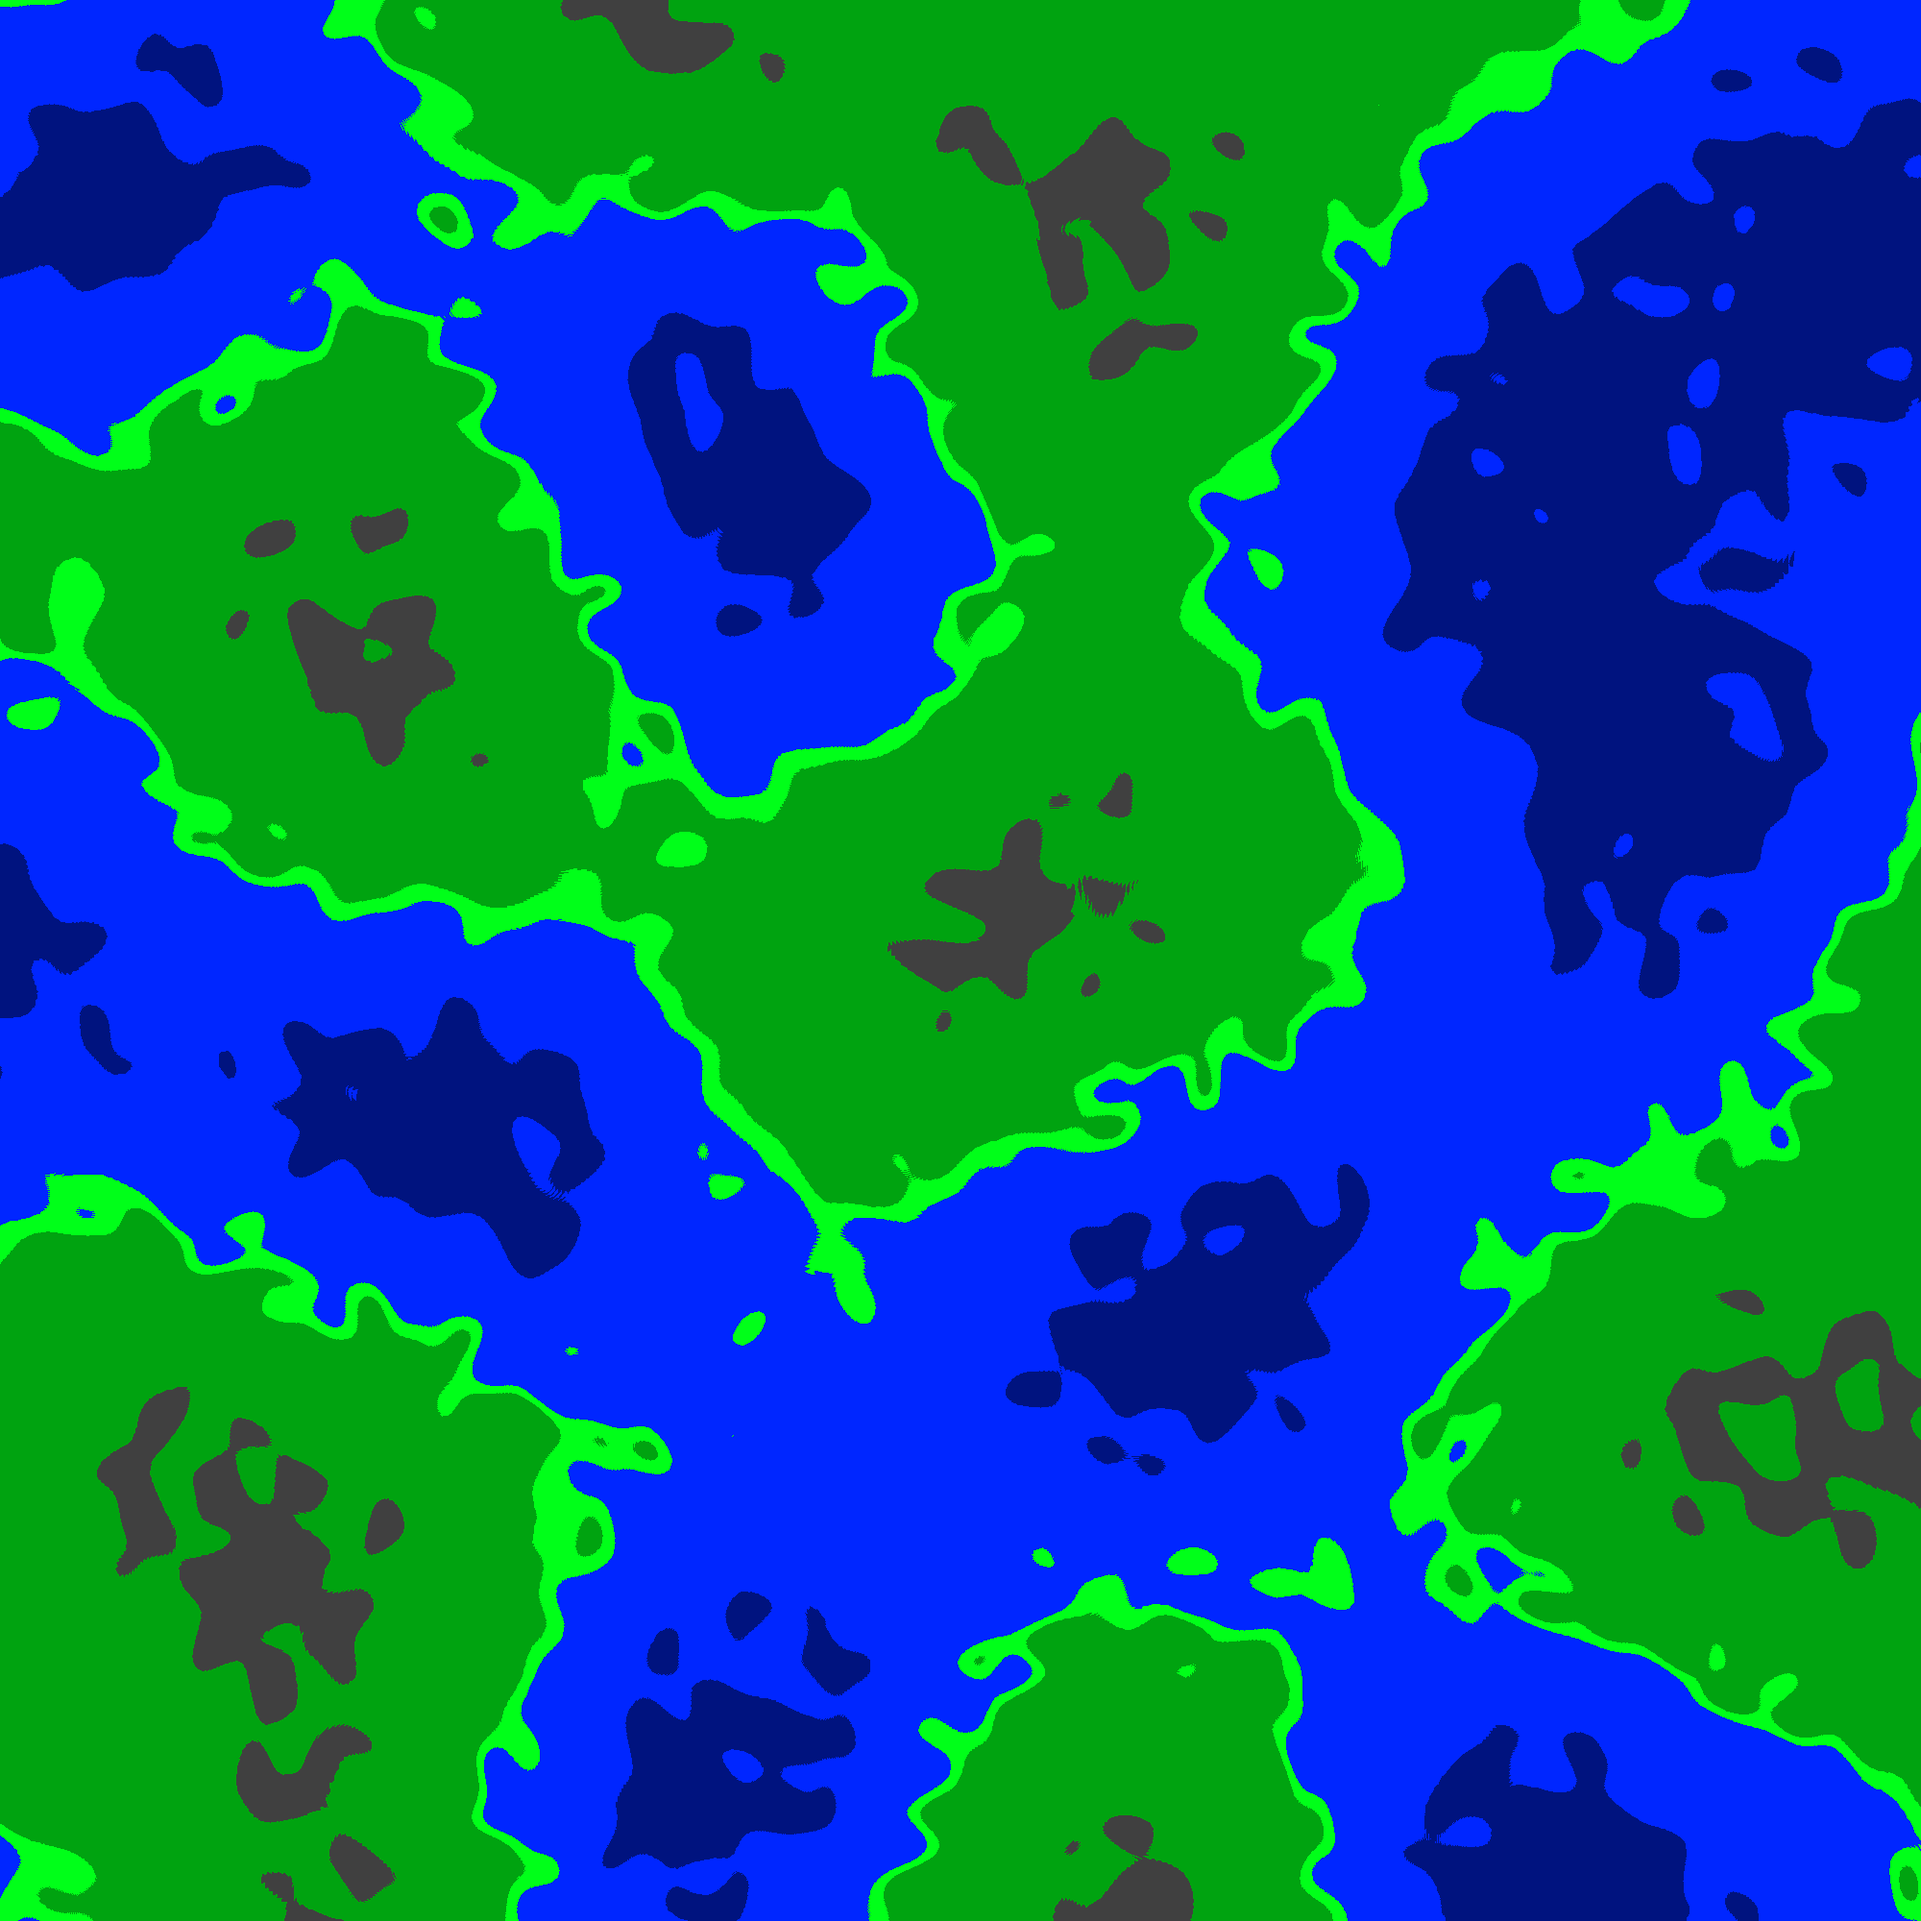
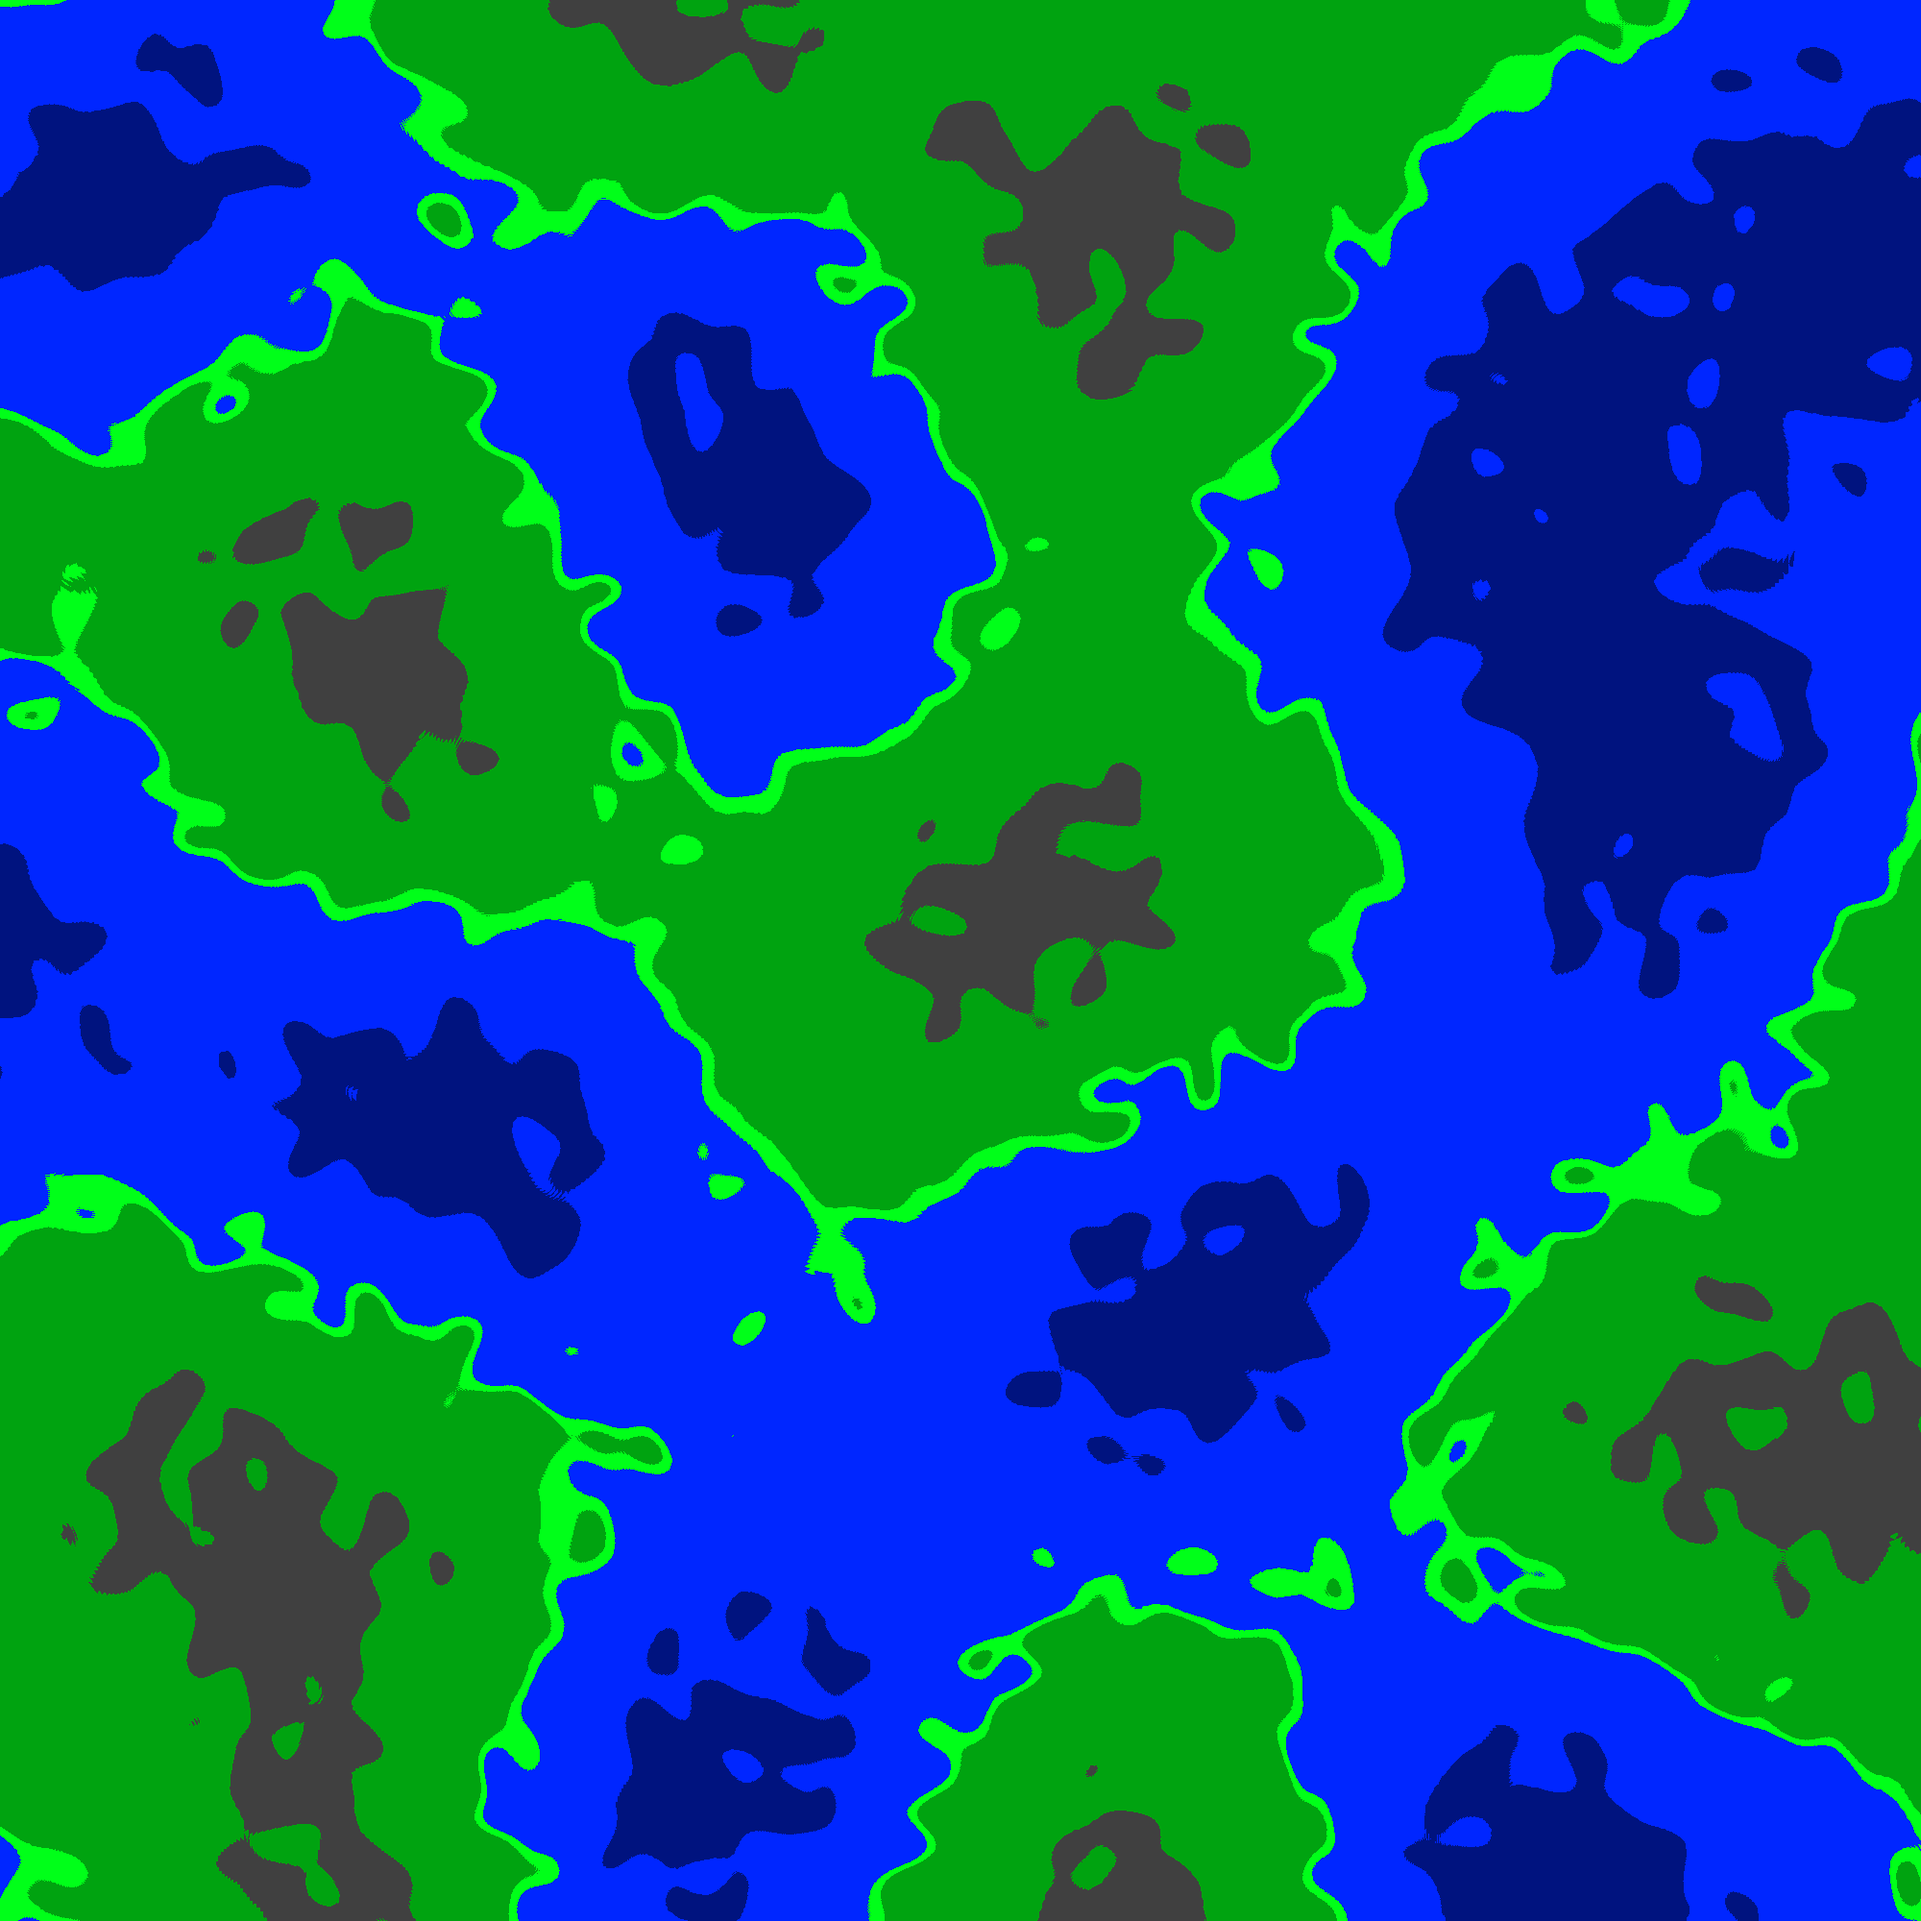
new map stuff for natural resources

diff --git a/govgameSandboxAndTesting/Program.cs b/govgameSandboxAndTesting/Program.cs
@@ -2,7 +2,9 @@
 using MongoDB.Bson;
 using MongoDB.Driver;
 using System;
+using System.Collections.Generic;
 using System.Drawing;
+using System.Linq;
 
 namespace govgameSandboxAndTesting
 {
@@ -15,61 +17,91 @@ namespace govgameSandboxAndTesting
         static readonly IMongoDatabase locationsDatabase = mongoClient.GetDatabase("govgame_locations_table");
         static readonly IMongoCollection<Location> locationsCollection = locationsDatabase.GetCollection<Location>("locations");
 
+        static Random random = new Random();
+
         static void Main(string[] args)
         {
-            // biomes: "deep water" = rgb(0, 19, 127), "shallow water" = rgb(0, 38, 255), "coast" = rgb(0, 255, 25), "grass" = rgb(0, 163, 16), "mountain" = rgb(64, 64, 64)
-
-            Color deepWater = Color.FromArgb(0, 19, 127);
-            Color shallowWater = Color.FromArgb(0, 38, 255);
-            Color coast = Color.FromArgb(0, 255, 25);
-            Color grass = Color.FromArgb(0, 163, 16);
             Color mountain = Color.FromArgb(64, 64, 64);
+            Color coal = Color.FromArgb(0, 0, 0);
+            Color iron = Color.FromArgb(69, 136, 145);
 
             Bitmap map = (Bitmap)Image.FromFile("map.png");
+
+            /* Plan:
+             * 
+             * - loop through squares
+             * - if square is mountain:
+             *  - get square's neighbours (all 8)
+             *  - if any neighbours are not mountain, skip
+             *  - if no neighbours are ore, 80% chance that a ore deposit starts
+             *  - if any neighbours (4) are ore:
+             *   - if neighbours contain >1 type of ore, skip
+             *   - if neighbours contain 1 type of ore, 60% chance of continuing ore deposit
+             */
 
             for (int x = 0; x < map.Width; x++)
             {
                 for (int y = 0; y < map.Height; y++)
                 {
-                    string biome = "unknown";
+                    if (map.GetPixel(x, y).ToArgb() == mountain.ToArgb())
+                    {
+                        if (x == 0 || x == map.Width - 1 || y == 0 || y == map.Height - 1) continue;
 
-                    Color pixelColour = map.GetPixel(x, y);
+                        List<Color> neighbours = new List<Color>();
+                        for (int xOffset = -1; xOffset <= 1; xOffset++)
+                        {
+                            for (int yOffset = -1; yOffset <= 1; yOffset++)
+                            {
+                                if (xOffset == 0 && yOffset == 0) continue;
 
-                    if (pixelColour.ToArgb() == deepWater.ToArgb())
-                    {
-                        biome = "deep water";
-                    }
-                    if (pixelColour.ToArgb() == shallowWater.ToArgb())
-                    {
-                        biome = "shallow water";
-                    }
-                    if (pixelColour.ToArgb() == coast.ToArgb())
-                    {
-                        biome = "coast";
-                    }
-                    if (pixelColour.ToArgb() == grass.ToArgb())
-                    {
-                        biome = "grass";
-                    }
-                    if (pixelColour.ToArgb() == mountain.ToArgb())
-                    {
-                        biome = "mountain";
-                    }
+                                neighbours.Add(map.GetPixel(x + xOffset, y + yOffset));
+                            }
+                        }
 
-                    Location location = new Location
-                    {
-                        LocationId = new ObjectId(),
-                        GlobalX = x,
-                        GlobalY = y,
-                        Owner = "none",
-                        Biome = biome
-                    };
+                        // if any neighbours aren't mountain (or ore), skip
+                        if (neighbours.Where(neighbour => neighbour.ToArgb() != mountain.ToArgb() && neighbour.ToArgb() != coal.ToArgb() && neighbour.ToArgb() != iron.ToArgb()).Count() > 0) continue;
 
-                    locationsCollection.InsertOne(location);
+                        // if all neighbours are mountain and not ore
+                        if (neighbours.Where(neighbour => neighbour.ToArgb() == mountain.ToArgb()).Count() == 8)
+                        {
+                            if (random.NextDouble() > 0.2)
+                            {
+                                if (random.NextDouble() > 0.5)
+                                {
+                                    map.SetPixel(x, y, coal);
+                                }
+                                else
+                                {
+                                    map.SetPixel(x, y, iron);
+                                }
+                            }
+                        }
+                        // if any neighbours are ore
+                        else
+                        {
+                            List<Color> neighboursSquare = new List<Color> { neighbours[1], neighbours[3], neighbours[4], neighbours[6] };
+
+                            // if neighbours contain at least one of each ore
+                            if (neighboursSquare.Where(neighbour => neighbour.ToArgb() == coal.ToArgb()).Count() > 0 && neighboursSquare.Where(neighbour => neighbour.ToArgb() == iron.ToArgb()).Count() > 0) { continue; }
+
+                            Color oreToSet = mountain;
+                            string oreToPrint = "error";
+
+                            if (neighboursSquare.Where(neighbour => neighbour.ToArgb() == coal.ToArgb()).Count() > 0) { oreToSet = coal; oreToPrint = "Coal"; }
+                            if (neighboursSquare.Where(neighbour => neighbour.ToArgb() == iron.ToArgb()).Count() > 0) { oreToSet = iron; oreToPrint = "Iron"; }
+
+                            if (random.NextDouble() > 0.1)
+                            {
+                                map.SetPixel(x, y, oreToSet);
+                            }
+                        }
+                    }
                 }
 
-                Console.WriteLine($"{x}/{map.Width} columns completed. ({(double)x/map.Width}%)");
+                Console.WriteLine($"{x}/{map.Width} rows completed");
             }
+
+            map.Save("oreMap.png", System.Drawing.Imaging.ImageFormat.Png);
         }
     }
 }

diff --git a/govgameSharedClasses/Models/MongoDB/Location.cs b/govgameSharedClasses/Models/MongoDB/Location.cs
@@ -12,6 +12,9 @@ namespace govgameSharedClasses.Models.MongoDB
         public string Owner { get; set; }
         // "deep water", "shallow water", "coast", "grass", "mountain"
         public string Biome { get; set; }
+        public int Coal { get; set; }
+        public int Hydrocarbons { get; set; } // oil and gas
+        public int Iron { get; set; }
     }
 
     public class GlobalLocationIdentifier
